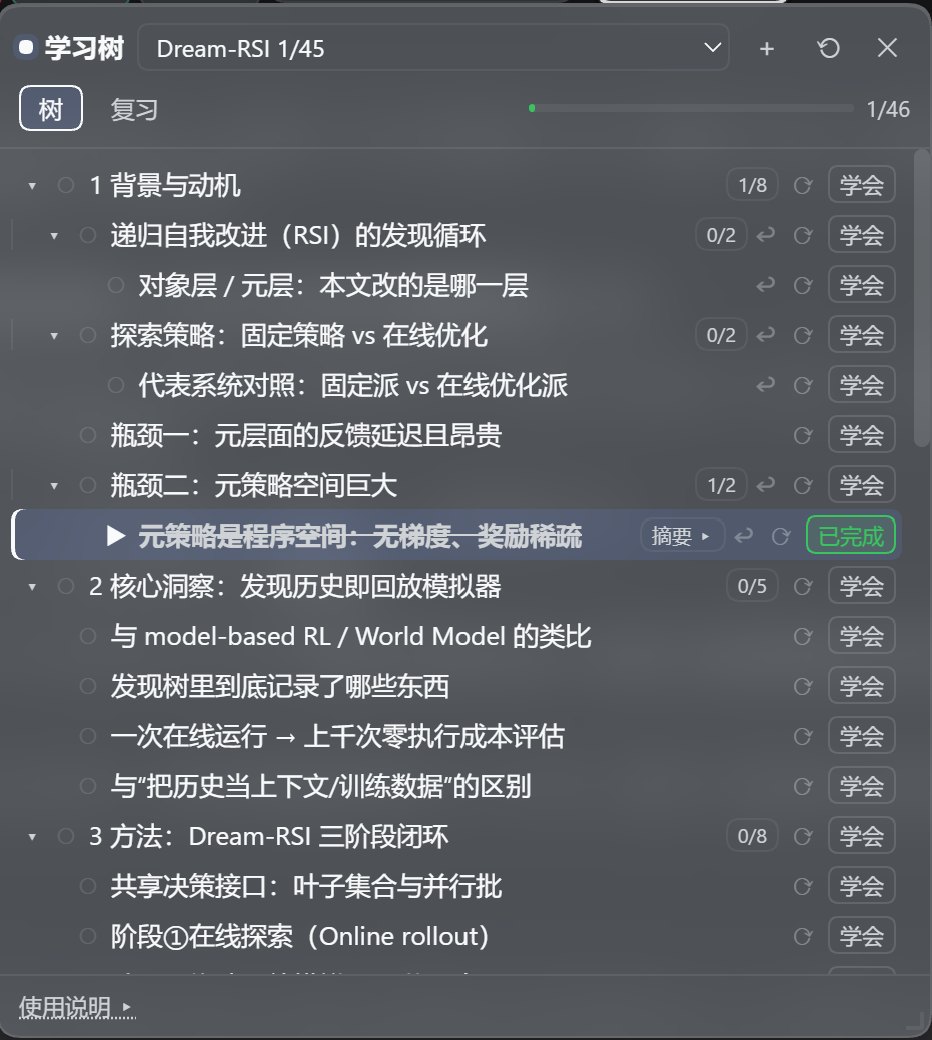
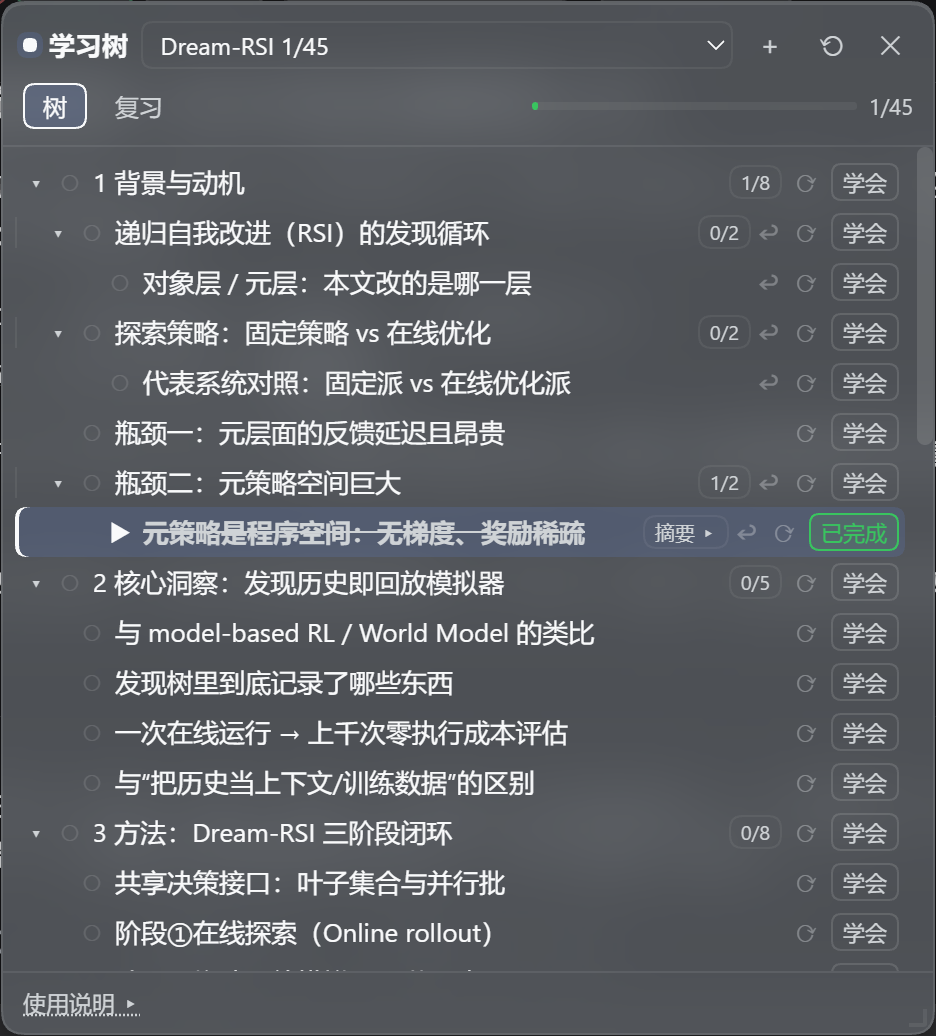
README：换用修复后的树视图截图，并修三处图注与不严谨表述
- `docs/images/tree-view.png` 换成修复后的截图：顶部进度行从 `1/46` 变成 `1/45`，
  与右上角下拉框一致（上一个提交修掉了"合成根多算 1"）
- 图注重写：原文写"顶部是进度与「上次看过后新增」"，但截图里并没有那条新增提示
  （它只在有新节点时出现）——改成如实描述：下拉框切树/新建、顶部一行是整棵树的进度、
  每行右侧是"这一支的进度"角标与 [摘要]/[⟳ 重写]/[✓ 学会]、高亮行＝当前聚焦（▶）+ [↩]
- 例子段落里那处「由「数组」问到「计算机地址」」是文档里的**通用示例**，不是这棵树里
  真发生的事，而该章节标题写着"全部是真实数据" → 换成这棵树里**真实**的下钻路径：
  「瓶颈二：元策略空间巨大」往下问出「元策略是程序空间：无梯度、奖励稀疏」
- 英文区修掉一处被换行截断的节点名（markdown 软换行会在名字中间渲染出一个空格）

README 内容与两张截图现在完全对得上；代码未改动（上一个提交后 7 套测试已全绿）。

diff --git a/README.md b/README.md
@@ -21,7 +21,9 @@
 
 ![面板 · 树视图](docs/images/tree-view.png)
 
-*面板是玻璃浮层，可拖动 / 可调大小 / 记住你上次调的样子。顶部是进度与「上次看过后新增」。*
+*面板浮层：可拖动 / 可调大小 / 记住你上次调的样子。右上角下拉框切树或新建；顶部一行是**整棵树的进度**
+（这里 `1/45`）；每行右侧是「这一支的进度」角标与 [摘要] / [⟳ 重写摘要] / [✓ 学会]；加粗高亮那一行＝
+**当前聚焦**（▶），它右边的 [↩] 能跳回讲它的那一轮对话。*
 
 ### 一个真实例子：4 轮对话，长出一棵 45 个节点的论文树
 
@@ -35,8 +37,9 @@
 | 3 | `介绍` | 你没指明对象。每轮自动注入的上下文块里已经写着「▶ 当前聚焦（用户正在看的）：递归自我改进（RSI）的发现循环」，所以 AI 接着讲的就是**那个**节点 —— 不用复述上下文，也不会讲错 |
 | 4 | `介绍一下` | 继续顺着你的思路往下长 |
 
-4 轮之后：**45 个节点**。树记录的是**你当时的思路**（由「数组」问到「计算机地址」，
-就挂在数组下面），不是教科书目录。
+4 轮之后：**45 个节点**。它记录的是**你当时的思路**：你是从「瓶颈二：元策略空间巨大」往下追问的，
+所以「元策略是程序空间：无梯度、奖励稀疏」就挂在**瓶颈二**下面 —— 而不是被挪到某个"教科书上更该待"
+的位置。（这也是上面那条摘要的节点。）
 
 #### 点一下 [✓ 学会]
 
@@ -161,8 +164,11 @@ automatically given the right context, and one click takes you back to the turn 
 
 ![Panel · tree view](docs/images/tree-view.png)
 
-*A frosted-glass panel you can drag, resize, and that remembers how you left it.
-The header shows progress and what was added since you last looked.*
+*A frosted-glass panel: drag it, resize it, and it remembers your last layout. The dropdown in the
+top right switches or creates trees; the row under the tabs is the **whole tree's progress**
+(`1/45` here); each row carries a "this branch's progress" badge plus
+`[摘要] / [⟳ rewrite] / [✓ 学会]`; the highlighted row is the **current focus** (▶), and the [↩] next to
+it jumps back to the conversation turn that taught it.*
 
 > The screenshots on this page show the UI in Chinese because DSH is set to Chinese on this machine.
 > Every string in the panel — and in the model-facing instructions — is localised and follows DSH's
@@ -180,8 +186,11 @@ The header shows progress and what was added since you last looked.*
 | 3 | `介绍` ("explain it") | You named nothing. The context block that is injected every turn already said `▶ 当前聚焦（用户正在看的）：递归自我改进（RSI）的发现循环`, so the AI explained **that** node — **no restating of context, no drift** |
 | 4 | `介绍一下` | The tree kept growing along your train of thought |
 
-After 4 turns: **45 nodes**. The tree records **the path your thinking actually took**
-(you ask about "computer addresses" while on "arrays", so it hangs under arrays) — not a textbook outline.
+After 4 turns: **45 nodes**. It records **the path your thinking actually took**: because you dug
+down from "瓶颈二：元策略空间巨大" (*bottleneck two: the meta-policy space is huge*), the sub-topic
+"元策略是程序空间：无梯度、奖励稀疏" (*the meta-policy is a program space*) hangs **under bottleneck
+two** rather than wherever a textbook outline "should" put it. (That is the node whose summary is
+quoted below.)
 
 #### What clicking [✓ 学会] ("learned") does
 
